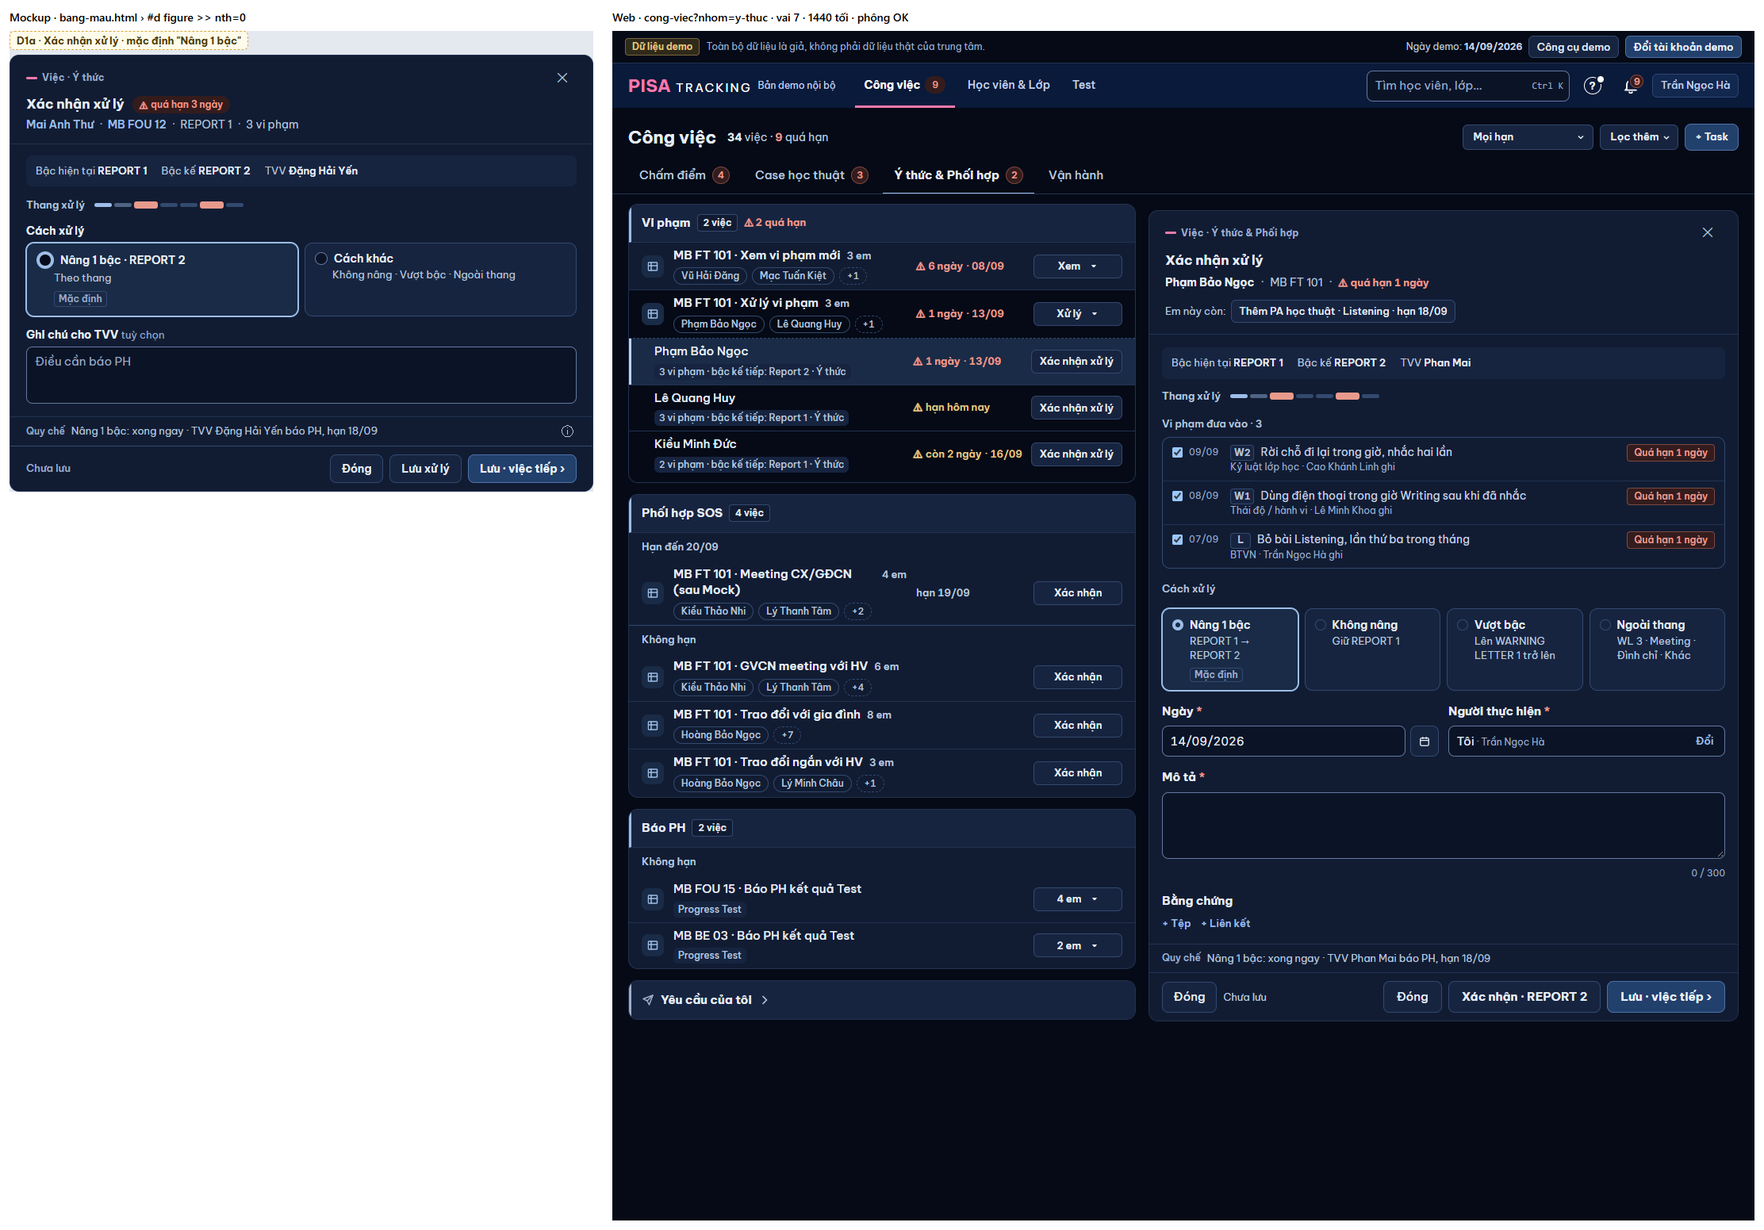
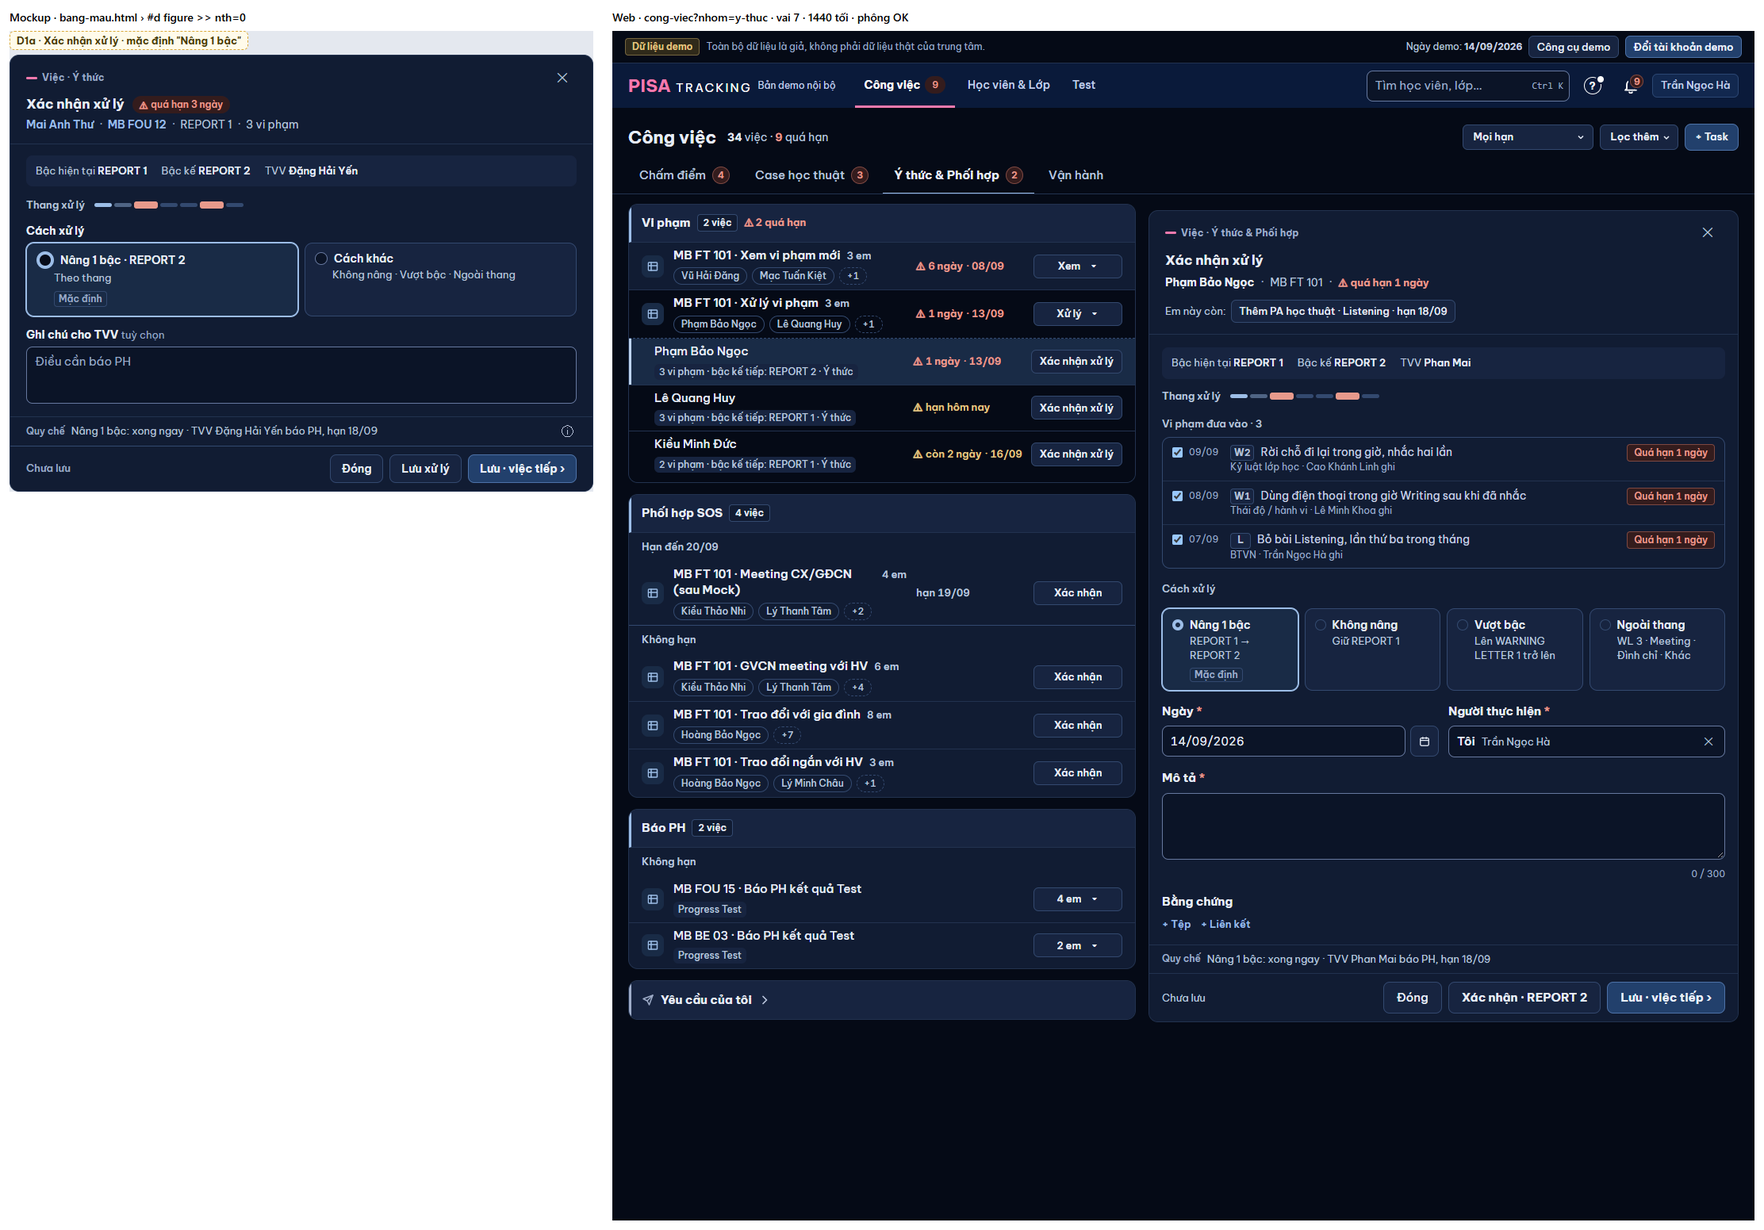
GD-4d: một chân một nút Đóng (KhungPanel chặn NutDongPanel khi có huy; Xác nhận xử lý huy: null) + phép kiểm; tên bậc viết hoa ở chuông (tachTin), Phân tích Ý thức + Excel, Chuyển lớp, tooltip dòng việc; ảnh + zoom chân

diff --git a/web/src/modules/phanTich/YThucPhoiHop.tsx b/web/src/modules/phanTich/YThucPhoiHop.tsx
@@ -10,8 +10,7 @@ import { DINH_TRAI, DaiChiSo, DauThe, MAU_SO_VOI_TRUOC, NutXemToanBo, NutXuat, R
 import { dich, t } from '@shared/i18n/index.ts';
 import {
   COT_XUAT_HV_CAN_CHU_Y, KHOA_LOAI_XU_LY, nhanKhoang, duongHoSoHocVien, nhanLoaiXuLy, nhanSoVoiTruoc, ngay,
-  type DongHvCanChuY, type DongLopViPham, type YThucPhanTichKetQua,
-} from '@shared/domain/index.ts';
+  type DongHvCanChuY, type DongLopViPham, type YThucPhanTichKetQua, bacDu, bacNgan } from '@shared/domain/index.ts';
 
 /**
  * Ý THỨC (PR-UX4, mockup 16 §5; PR-YT4 K1-25) — HAI danh sách: "Học viên cần chú ý" (em Quá hạn · Bắt buộc xử lý · Chờ QL duyệt, kèm bậc
@@ -50,8 +49,8 @@ export function YThucPhoiHop(props: PhamViPhanTich) {
     const hv: (string | number)[][] = [
       [t('Học viên cần chú ý · {moTa}', { moTa })], [],
       COT_XUAT_HV_CAN_CHU_Y.map((c) => dich(c)),
-      ...data.hvCanChuY.map((x) => [x.ten, x.email ?? '', x.lop ?? '', x.bac != null ? dich(x.bac) : t('Chưa xử lý lần nào'), x.bacKe != null ? dich(x.bacKe) : '', x.viPham, x.chuaXuLy,
-        `${x.bienPhapGanNhat != null ? dich(x.bienPhapGanNhat) : ''}${x.lanXuLyMoi ? ` ${t('(mới hơn: {ten} · {nhan})', { ten: dich(x.lanXuLyMoi.ten), nhan: dich(x.lanXuLyMoi.nhan) })}` : ''}`, x.ngay ? ngay(x.ngay, demoDate) : '']),
+      ...data.hvCanChuY.map((x) => [x.ten, x.email ?? '', x.lop ?? '', x.bac != null ? bacDu(dich(x.bac)) : t('Chưa xử lý lần nào'), x.bacKe != null ? bacDu(dich(x.bacKe)) : '', x.viPham, x.chuaXuLy,
+        `${x.bienPhapGanNhat != null ? bacDu(dich(x.bienPhapGanNhat)) : ''}${x.lanXuLyMoi ? ` ${t('(mới hơn: {ten} · {nhan})', { ten: bacDu(dich(x.lanXuLyMoi.ten)), nhan: dich(x.lanXuLyMoi.nhan) })}` : ''}`, x.ngay ? ngay(x.ngay, demoDate) : '']),
     ];
     const dongLop = (x: DongLopViPham, thut: boolean): (string | number)[] => [
       `${thut ? '  ' : ''}${dich(x.nhan)}`, x.viPham, x.chuaXuLy, x.hvCoViPham, x.siSo ?? '', nhanSoVoiTruoc(x.soVoiTruoc).chu, x.gvcn ?? '',
@@ -65,7 +64,7 @@ export function YThucPhoiHop(props: PhamViPhanTich) {
     const pa: (string | number)[][] = [
       [t('Xử lý đã xong trong kỳ theo loại · {moTa}', { moTa })], [],
       [t('Loại xử lý'), t('Xong')],
-      ...KHOA_LOAI_XU_LY.filter((k) => k !== 'loai-cu' || data.bienPhapTheoLoai[k]).map((k) => [nhanLoaiXuLy(k), data.bienPhapTheoLoai[k] ?? 0]),
+      ...KHOA_LOAI_XU_LY.filter((k) => k !== 'loai-cu' || data.bienPhapTheoLoai[k]).map((k) => [bacDu(nhanLoaiXuLy(k)), data.bienPhapTheoLoai[k] ?? 0]),
     ];
     const wb = XLSX.utils.book_new();
     XLSX.utils.book_append_sheet(wb, XLSX.utils.aoa_to_sheet(hv), t('HV cần chú ý'));
@@ -100,8 +99,8 @@ export function YThucPhoiHop(props: PhamViPhanTich) {
   const mauCx = (x: { chuaXuLy: number; quaHan?: number }) => (!x.chuaXuLy ? '' : x.quaHan ? 'text-bad' : 'text-soon');
   const bac = (x: DongHvCanChuY) => (
     <span className="text-[color:var(--text-dim)]">
-      {x.bac != null ? <b className="font-semibold text-slate-200">{dich(x.bac)}</b> : <span className="text-faint">{t('Chưa xử lý lần nào')}</span>}
-      {x.bacKe && <> › <span className="whitespace-nowrap">{dich(x.bacKe)}</span></>}
+      {x.bac != null ? <b className="font-semibold text-slate-200">{bacNgan(dich(x.bac))}</b> : <span className="text-faint">{t('Chưa xử lý lần nào')}</span>}
+      {x.bacKe && <> › <span className="whitespace-nowrap">{bacNgan(dich(x.bacKe))}</span></>}
     </span>
   );
 
@@ -114,8 +113,8 @@ export function YThucPhoiHop(props: PhamViPhanTich) {
         { nhan: t('Vi phạm'), noiDung: <OSo giaTri={x.viPham} nguon={nguon(`hv:${x.studentId}`, 'vi-pham')} tieuDe={t('{ten} · vi phạm', { ten: x.ten })} /> },
         { nhan: t('Chưa xử lý'), noiDung: <OSo giaTri={x.chuaXuLy} nguon={nguon(`hv:${x.studentId}`, 'chua-xu-ly')} tieuDe={t('{ten} · chưa xử lý', { ten: x.ten })} className={mauCx(x)} /> },
         { nhan: t('Bậc'), noiDung: bac(x) },
-        { nhan: t('Lần gần nhất'), noiDung: <>{x.bienPhapGanNhat ? `${dich(x.bienPhapGanNhat)}${x.ngay ? ` · ${ngay(x.ngay, demoDate)}` : ''}` : !x.lanXuLyMoi && <span className="text-faint">—</span>}
-          {x.lanXuLyMoi && <div className="text-muted">{dich(x.lanXuLyMoi.ten)} · {dich(x.lanXuLyMoi.nhan)}</div>}</> },
+        { nhan: t('Lần gần nhất'), noiDung: <>{x.bienPhapGanNhat ? `${bacNgan(dich(x.bienPhapGanNhat))}${x.ngay ? ` · ${ngay(x.ngay, demoDate)}` : ''}` : !x.lanXuLyMoi && <span className="text-faint">—</span>}
+          {x.lanXuLyMoi && <div className="text-muted">{bacNgan(dich(x.lanXuLyMoi.ten))} · {dich(x.lanXuLyMoi.nhan)}</div>}</> },
       ]} />
   );
   const theLop = (x: DongLopViPham) => {
@@ -160,8 +159,8 @@ export function YThucPhoiHop(props: PhamViPhanTich) {
               <td className="td text-center tabular-nums"><OSo giaTri={x.chuaXuLy} nguon={nguon(`hv:${x.studentId}`, 'chua-xu-ly')} tieuDe={t('{ten} · chưa xử lý', { ten: x.ten })} className={mauCx(x)} /></td>
               <td className="td">{bac(x)}</td>
               <td className="td whitespace-normal text-slate-300">
-                {x.bienPhapGanNhat ? `${dich(x.bienPhapGanNhat)}${x.ngay ? ` · ${ngay(x.ngay, demoDate)}` : ''}` : !x.lanXuLyMoi && <span className="text-faint">—</span>}
-                {x.lanXuLyMoi && <div className={x.bienPhapGanNhat ? 'text-xs text-muted' : ''}>{dich(x.lanXuLyMoi.ten)} · {dich(x.lanXuLyMoi.nhan)}</div>}
+                {x.bienPhapGanNhat ? `${bacNgan(dich(x.bienPhapGanNhat))}${x.ngay ? ` · ${ngay(x.ngay, demoDate)}` : ''}` : !x.lanXuLyMoi && <span className="text-faint">—</span>}
+                {x.lanXuLyMoi && <div className={x.bienPhapGanNhat ? 'text-xs text-muted' : ''}>{bacNgan(dich(x.lanXuLyMoi.ten))} · {dich(x.lanXuLyMoi.nhan)}</div>}
               </td>
             </tr>
           ))}

diff --git a/web/src/modules/congViec/DanhSachViec.tsx b/web/src/modules/congViec/DanhSachViec.tsx
@@ -416,7 +416,7 @@ function DongViec({ it, ...dong }: ChungDong & { it: WorkItem }) {
   const muc = chipMuc(it, true);
   const bam = () => dong.onOpen(it);
   return (
-    <div data-hd="cv-dong" data-khoa={it.key} onClick={daXong ? undefined : bam} title={dich(it.reason)}
+    <div data-hd="cv-dong" data-khoa={it.key} onClick={daXong ? undefined : bam} title={bacNgan(dich(it.reason))}
       className={`${DONG} ${dangChon ? 'row-active' : daXong ? 'cursor-default' : 'bam'}`}>
       <span className="flex min-w-0 items-center gap-3 max-sm:items-start"><AvViec it={it} />
       <span className="grid min-w-0 gap-0.5">
@@ -477,7 +477,7 @@ function DongLop({ it, ...dong }: ChungDong & { it: WorkItem }) {
   const muc = chipMuc(it, false);
   return (
     <div className={con && mo ? 'bg-[color:var(--bg)]' : ''}>
-      <div data-hd="cv-dong" data-khoa={it.key} onClick={daXong ? undefined : bam} title={con ? undefined : dich(it.reason)}
+      <div data-hd="cv-dong" data-khoa={it.key} onClick={daXong ? undefined : bam} title={con ? undefined : bacNgan(dich(it.reason))}
         className={`${DONG} ${dangChon ? 'row-active' : daXong ? 'cursor-default' : 'bam'}`}>
         <span className="flex min-w-0 items-center gap-3 max-sm:items-start"><AvViec it={it} />
         <span className="grid min-w-0 gap-0.5">
@@ -541,7 +541,7 @@ function DongGon({ it, ...dong }: ChungDong & { it: WorkItem }) {
   const maDs = `con-${it.key}`;
   return (
     <div className={con && mo ? 'bg-[color:var(--bg)]' : ''}>
-      <div data-hd="cv-dong" data-khoa={it.key} onClick={daXong ? undefined : bam} title={dich(it.reason)}
+      <div data-hd="cv-dong" data-khoa={it.key} onClick={daXong ? undefined : bam} title={bacNgan(dich(it.reason))}
         className={`${DONG} sm:min-h-16 ${dangChon ? 'row-active' : daXong ? 'cursor-default' : 'bam'}`}>
         <span className="flex min-w-0 items-center gap-3 max-sm:items-start"><AvViec it={it} />
         <span className="grid min-w-0 gap-[5px]">
@@ -583,7 +583,7 @@ function DongCon({ it, ...dong }: ChungDong & { it: WorkItem & { conTen: string;
   const { daXong, dangChon, nut, nguoi } = useDong(it, dong);
   const bam = () => dong.onOpen(it);
   return (
-    <div data-hd="cv-dong" data-khoa={it.key} onClick={daXong ? undefined : bam} title={dich(it.reason)}
+    <div data-hd="cv-dong" data-khoa={it.key} onClick={daXong ? undefined : bam} title={bacNgan(dich(it.reason))}
       className={`${DONG} min-h-[48px] pl-8 max-sm:py-2 sm:pl-8 ${dangChon ? 'row-active' : daXong ? 'cursor-default' : 'bam'}`}>
       <span className="grid min-w-0 gap-0.5">
         <button type="button" disabled={daXong} onClick={(e) => { e.stopPropagation(); bam(); }} aria-current={dangChon ? 'true' : undefined}

diff --git a/web/src/ui/KhungPanel.tsx b/web/src/ui/KhungPanel.tsx
@@ -158,7 +158,7 @@ export const HienLaiPanel = createContext<(() => void) | null>(null);
 /** HV-LOP-VIEC: nơi mở một panel việc THAY nội dung panel của mình (panel một em → PanelViec) cấp "← tên em" cho panel NGOÀI CÙNG bên trong
  *  (không phải sửa từng panel việc); prop `quayLai` riêng thắng; panel / hộp lồng trong không nhận lại. */
 /** GD-4b (lời 36, dòng 40c ⓪): hàm đóng của panel đang chứa (cùng đường ✕ / Esc — đang gõ dở thì hỏi "Bỏ chữ, đóng"). `NutVaTiep` đọc để vẽ nút "Đóng"
- *  trước nút việc; panel trong cột hồ sơ (`trongCot`, không có ✕) thì null. */
+ *  trước nút việc; null khi panel trong cột hồ sơ (`trongCot`, không có ✕) HOẶC chân thường đã có nút "Đóng" mặc định (`huy`) — một chân một nút "Đóng" (GD-4d). */
 export const DongKhungPanel = createContext<(() => void) | null>(null);
 export const QuayLaiPanel = createContext<{ nhan: string; onClick: () => void; xem?: boolean } | null>(null);
 
@@ -465,7 +465,7 @@ export function KhungPanel({ tieuDe: tieuDeGoc, hocVien, lop, rong: rongRieng, t
         {hoi && <HopBoChu viec={tieuDe} nut={hoi.nut} onO={() => { setHoi(null); hoi.o?.(); }} onBo={boChu} />}
     </>
   );
-  const voi = (x: ReactNode) => <TrongKhung.Provider value><QuayLaiPanel.Provider value={null}><DongKhungPanel.Provider value={trongCot ? null : dong}>{x}</DongKhungPanel.Provider></QuayLaiPanel.Provider></TrongKhung.Provider>;
+  const voi = (x: ReactNode) => <TrongKhung.Provider value><QuayLaiPanel.Provider value={null}><DongKhungPanel.Provider value={trongCot || (chan && !chan.v3 && huy) ? null : dong}>{x}</DongKhungPanel.Provider></QuayLaiPanel.Provider></TrongKhung.Provider>;
   if (taiCho) {
     /* OV-14c: Esc từ hộp nằm trong portal (hộp nhập điểm) nổi bọt qua cây React — chỉ đóng panel khi Esc phát ra TRONG khung panel. */
     return (

diff --git a/web/src/modules/platform/HopChuong.tsx b/web/src/modules/platform/HopChuong.tsx
@@ -15,8 +15,7 @@ import { useNgayNghiepVu } from '../../ui/ngayNghiepVu.ts';
 import { useToast } from '../../ui/Toast.tsx';
 import {
   NHAN_NHOM_NGAY, VIEC_TU_TIN, duongThongBao, gomViecChuong, laTinViec, laViecTuTin, loaiTin, moDuocThongBao, nhomNgayTin, soViecMoi, tachTin,
-  thoiGianThongBao, xepLoaiViec, type DemYeuCau, type DongViecChuong, type LoaiViecChuong, type NhomNgayTin,
-} from '@shared/domain/index.ts';
+  thoiGianThongBao, xepLoaiViec, type DemYeuCau, type DongViecChuong, type LoaiViecChuong, type NhomNgayTin, bacNgan } from '@shared/domain/index.ts';
 import { dich, t } from '@shared/i18n/index.ts';
 
 /** Phần `/my-work` chuông đọc (bản của badge ở App). */
@@ -123,7 +122,7 @@ export function HopChuong({ viec, dem, onDong }: { viec: ViecChuong | null | und
     const doc = `${n.read_at ? '' : t('Chưa đọc: ')}${nhanLoai}: ${kq ? `${kq.chu} · ` : ''}${chu}`;
     return (
       <li key={n.id}>
-        <button type="button" className={`chv-tin${n.read_at ? '' : ' chv-chua'}${day ? ' chv-day' : ''}`} onClick={() => { void moTin(n); }} title={`${chu}${n.body ? ` · ${dich(n.body)}` : ''}`} aria-label={`${doc}, ${luc}`}>
+        <button type="button" className={`chv-tin${n.read_at ? '' : ' chv-chua'}${day ? ' chv-day' : ''}`} onClick={() => { void moTin(n); }} title={`${chu}${n.body ? ` · ${bacNgan(dich(n.body))}` : ''}`} aria-label={`${doc}, ${luc}`}>
           <span aria-hidden className="chv-c" />
           <span className="chv-m"><span className="chv-l">{nhanLoai}</span><time title={nhan(homNay, n.created_at)}>{luc}</time></span>
           <span className="chv-x">{kq && <><b className={`chv-kq chv-${kq.tone}`}>{kq.chu}</b> · </>}{chu}</span>

diff --git a/server/src/tests/thanhPhanChung.tests.ts b/server/src/tests/thanhPhanChung.tests.ts
@@ -228,6 +228,15 @@ export async function runThanhPhanChungTests(t: YThucTestKit) {
       assert(/<BoLocDoan\b/.test(doc(f)), `${f} chưa dùng BoLocDoan`);
   });
 
+  /* GD-4d (PTA Plan rà #1641): một chân panel việc chỉ MỘT nút "Đóng" — chân thường đã có "Đóng" mặc định (`huy`) thì `NutDongPanel` / `NutVaTiep`
+     không vẽ thêm; panel đặt "Đóng" sát nút (⑤ D1a) dùng `huy: null`. */
+  check('GD-4d · chân panel việc một nút "Đóng": KhungPanel chặn NutDongPanel khi chân đã có huy; Xác nhận xử lý huy: null', () => {
+    const khung = doc('web/src/ui/KhungPanel.tsx');
+    assert(/DongKhungPanel\.Provider value=\{trongCot \|\| \(chan && !chan\.v3 && huy\) \? null : dong\}/.test(khung), 'KhungPanel phải tắt DongKhungPanel khi chân đã có nút Đóng mặc định');
+    assert(/useContext\(DongKhungPanel\)/.test(doc('web/src/ui/KhuonViec.tsx')), 'NutDongPanel phải đọc DongKhungPanel');
+    assert(/huy: null, chinh: nutChinh/.test(doc('web/src/modules/yThuc/XacNhanXuLyPanel.tsx')), 'Xác nhận xử lý: huy: null (Đóng đi cùng NutVaTiep)');
+  });
+
   check('NEN (9) · E1: không còn Drawer; E3: Esc/mũi tên ở đầu trang, "Không tìm thấy học viên", "Bỏ qua tới nội dung"', () => {
     const sai = tepNguon('web/src').filter((f) => /<Drawer\b/.test(doc(f)));
     assert(sai.length === 0, sai.join(', '));

diff --git a/shared/domain/chuong.ts b/shared/domain/chuong.ts
@@ -10,6 +10,7 @@ import { laViecChamCheo } from './gopViec.ts';
 import { ngayTheoGioVN } from './display.ts';
 import { mondayOfDate } from './week.ts';
 import { addDaysIso } from './sos.ts';
+import { bacNgan } from './yThuc.ts';
 
 /** Tên loại việc — CÙNG chữ `GROUP_META.label` của máy chủ (`mywork.ts`; phép kiểm CHUONG-V2-1 so hai bảng). */
 export const NHAN_LOAI_VIEC: Record<string, string> = {
@@ -91,7 +92,8 @@ const KQ_YC: [RegExp, KetQuaTin['tone'], string][] = [
   [/ · Đã duyệt$/, 'ok', t('Đã duyệt')], [/ · Bị từ chối:? ?/, 'bad', t('Từ chối')], [/ · Đã trả lời:? ?/, 'trung', t('Đã trả lời')], [/ · Tự đóng:? ?/, 'trung', t('Tự đóng')],
 ];
 export function tachTin(n: { kind: string | null; title: string }): { kq: KetQuaTin | null; chu: string } {
-  const tieuDe = n.title ?? '';
+  /* GD-4d (⓪ dòng 18, ⑤ H5): tên bậc trong tin (chuỗi máy chủ "Thu hồi Report 2") viết hoa, dạng tắt — một khái niệm một cách viết. */
+  const tieuDe = bacNgan(n.title ?? '');
   if (n.kind === 'duyet_ket_qua' || n.kind === 'duyet_tu_choi') {
     for (const [re, tone, chu] of KQ_YC) {
       const m = re.exec(tieuDe);

diff --git a/web/src/modules/yThuc/XacNhanXuLyPanel.tsx b/web/src/modules/yThuc/XacNhanXuLyPanel.tsx
@@ -264,8 +264,8 @@ export function XacNhanXuLyPanel({ studentId, cheDo: cheDoMo = 'xu-ly', tickThem
     <KhungPanel hd="xu-ly-vi-pham" rong="rong" tieuDe={tieuDe} hocVien={d.ten} onDong={onDong} dau={dau(cheDo === 'xu-ly')}
       quyChe={quyCheXuLy(cach, { tvv: d.tvv ?? null, han: ngay(hanBaoPh(homNay), homNay), soNgay: soNgayQl })}
       chan={{
-        /* Mockup v20 D1: chân lưu chung — trái trạng thái lưu, phải Đóng + nút chính. */
-        chinh: nutChinh, daSua: !!moTa.trim(),
+        /* Mockup v20 D1 · ⑤ D1a: chân lưu chung — trái trạng thái lưu, phải "Đóng" (NutVaTiep) + nút việc + "Lưu · việc tiếp ›". `huy: null`: không vẽ "Đóng" thứ hai. */
+        huy: null, chinh: nutChinh, daSua: !!moTa.trim(),
         conThieu: lf.conThieu(loi) ?? (lf.daBam && loiNguoi ? [{ nhan: t('Người thực hiện'), lyDo: loiNguoi }] : undefined),
         trai: busy || loiLuu ? <TrangThaiLuu tt={busy ? 'dang' : 'loi'} loi={loiLuu} onThuLai={() => void (cheDo === 'xu-ly' ? luuXuLy() : guiDeXuat())} />
           : <span className="text-slate-400">{t('Chưa lưu')}</span>,

diff --git a/docs/anh/gd4d-dong-bo-0/khop-khac.md b/docs/anh/gd4d-dong-bo-0/khop-khac.md
@@ -12,6 +12,7 @@ Nguồn: `thiet-ke/v21/dong-bo-ghi-chu.md` (mockup ⓪, chủ SP duyệt lời 3
 | `cap-1440-tinh-hinh.png` | ⑤ F3 | "+ Task" › Tình hình học tập (một hộp), gõ "tran" |
 | `cap-1440-chip.png` | ⑤ C2 | Công việc › Lớp của tôi (chip số) |
 | `zoom-x-ba-cham.png` | ⑤ F2, D1 · ③ | góc ✕ / ⋯ phóng to |
+| `zoom-chan-xu-ly.png` | ⑤ D1a | chân panel Xác nhận xử lý phóng to: "Chưa lưu" trái · "Đóng · Xác nhận · REPORT 2 · Lưu · việc tiếp ›" (một nút Đóng) |
 
 ## 1. Truy vết
 
@@ -28,7 +29,7 @@ Nguồn: `thiet-ke/v21/dong-bo-ghi-chu.md` (mockup ⓪, chủ SP duyệt lời 3
 **KHỚP 7 / 7 = 100 %.**
 
 ## 2. KHÁC / [XM] (hỏi PTA Plan)
-- **[XM-1] Nhãn bậc ở máy chủ giữ "Report 1" / "WL 1"**: `MEASURE_KIND_LABEL` / `nhanLoaiXuLy` dựng tiêu đề việc, thông báo, dòng lưu trong DB — đổi ở đó là đổi dữ liệu / API và vỡ ~25 phép kiểm chạy thật. Web viết hoa khi HIỂN THỊ qua `bacNgan` / `bacDu` (cả chuỗi máy chủ cũ). Tệp xuất / thông báo chuông chưa viết hoa — PR riêng nếu cần.
+- **[XM-1] → ĐÃ LÀM (PTA Plan rà #1641, "một khái niệm một cách viết"):** nhãn bậc lưu ở máy chủ / DB vẫn "Report 1" (dữ liệu, ~25 phép kiểm chạy thật), nhưng MỌI chỗ hiển thị đi qua `bacNgan` / `bacDu`: dòng việc + thẻ phụ + tooltip (`tenViec`, `DongPhu`, `reason`), tiêu đề panel (`KhungPanel`), chuông + "Xem tất cả" (`tachTin` — một chỗ cho mọi tin; thân tin), Phân tích Ý thức (bảng: tắt; tệp Excel: đủ — ⑤ H5 "tệp xuất"), Chuyển lớp (tên bậc ô Reset), các panel Ý thức. Tệp xuất phía máy chủ (Báo cáo PH, danh sách lớp) không có tên bậc.
 - **[XM-2] Ngoài thang** (Meeting CX/GĐCN, Đình chỉ, Khác) giữ chữ thường (cùng nhãn dùng ở Case và Hướng dẫn); WL 3 vốn đã hoa.
 - **[XM-3] Xem vi phạm 375 khi còn việc kế**: chân 3 nút xuống hai hàng (Xác nhận xử lý · Đã xem · n / "Đã xem · việc tiếp ›" cả hàng) — đã chụp `cap-375-xem-vi-pham.png`, đủ rộng, vùng bấm 44; mockup D4 chỉ vẽ 2 nút. Bỏ "Đã xem · n" ở 375 nếu PTA muốn một hàng.
 - **[XM-4] Đầu hộp "Báo tình hình"** ở hồ sơ lớp / HV cũng đổi theo (cùng hộp: "Tình hình học tập · Gửi TVV" + ✕); loại Hỏi / Sửa / Ghi kết quả giữ đầu cũ.
@@ -38,6 +39,9 @@ Nguồn: `thiet-ke/v21/dong-bo-ghi-chu.md` (mockup ⓪, chủ SP duyệt lời 3
 - Ngày lần xử lý trước không còn ở khối bậc (⑤ D1a không vẽ) — vẫn xem ở lịch sử.
 
 Từ 4b chuyển backlog (PTA chép): Q27 chữ theo mã · Q29 tối thiểu 8 ký tự theo hằng · Q74 / Q75 / Q77 (trang Cuối khoá), Q80, Q82, Q83 chưa gắn câu.
+
+## 2b. Một chân một nút "Đóng" (PTA Plan rà #1641)
+Ảnh cũ có hai "Đóng" ở chân Xác nhận xử lý (`huy` mặc định của khung + `NutDongPanel` trong `NutVaTiep`). Sửa tận gốc: `KhungPanel` không đưa hàm đóng xuống `NutDongPanel` khi chân thường đã có `huy` (`DongKhungPanel` = null) → không panel nào vẽ hai "Đóng"; Xác nhận xử lý đặt `huy: null` để "Đóng" đứng sát nút như ⑤ D1a. Đã rà: Case / PA (chân v3, không `huy`), Báo PH TVV, Đã thực hiện, Khai bậc, Xem vi phạm, Bàn giao (`huy: null` khi có NutDongPanel). Phép kiểm `thanhPhanChung` "GD-4d · chân panel việc một nút Đóng".
 
 ## 3. Thao tác TRƯỚC → SAU
 
